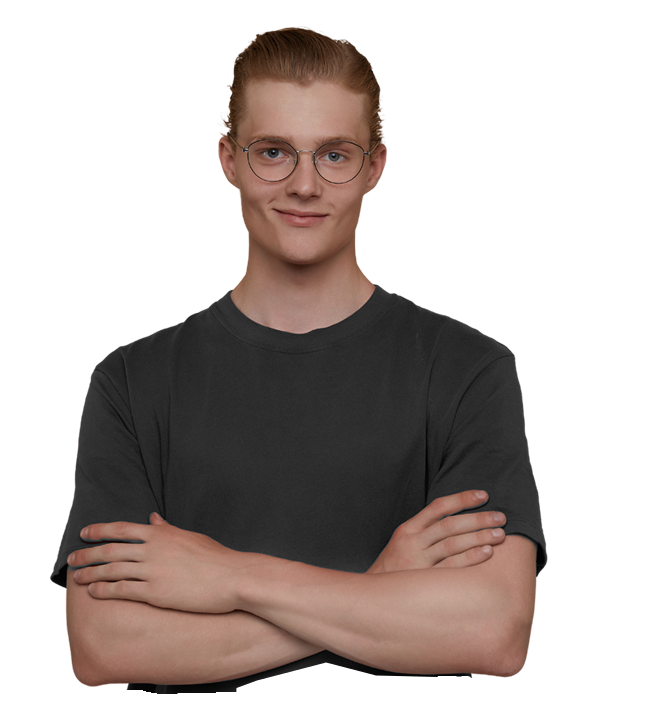
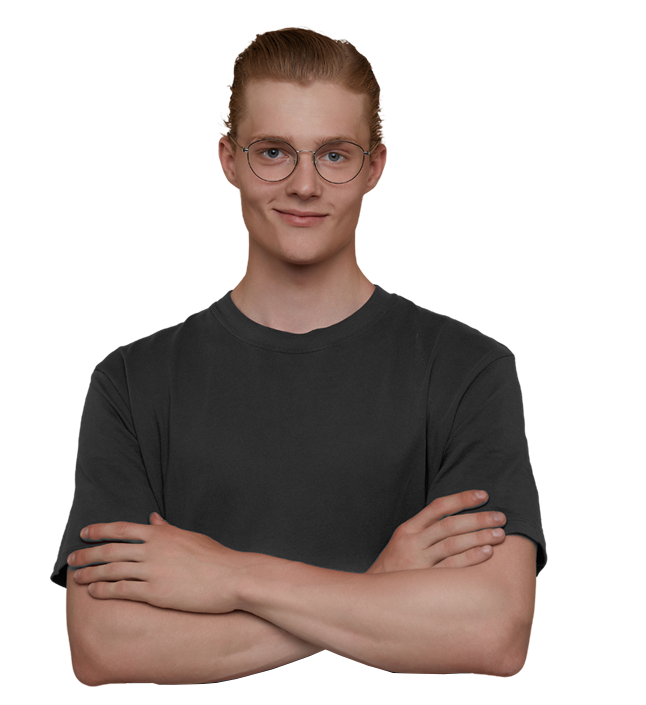
lp responsive started

Changed region(s): [[0.3715, 0.905, 0.743, 0.9674], [0.1858, 0.9674, 0.3715, 0.9986]]

diff --git a/src/app/shared/header/header.component.html b/src/app/shared/header/header.component.html
@@ -32,7 +32,28 @@
     </div>
     <ng-template #Mobileview >
         <div class="mobile-header">
-            <span>Hallo</span>
+            <svg width="140.28" height="31.458" viewBox="0 0 140.28 31.458" xmlns="http://www.w3.org/2000/svg">
+                <g id="svgGroup" stroke-linecap="round" fill-rule="evenodd" font-size="9pt">
+                    <path fill="#ffffff"
+                        d="M 25.326 1.764 L 31.962 1.764 L 31.962 31.08 L 26.082 31.08 L 26.082 12.012 L 18.228 31.08 L 13.776 31.08 L 5.88 12.012 L 5.88 31.08 L 0 31.08 L 0 1.764 L 6.678 1.764 L 16.002 23.562 L 25.326 1.764 Z"
+                        id="0" vector-effect="non-scaling-stroke" />
+                    <path fill="#7C28BD"
+                        d="M 54.558 11.13 L 54.558 7.812 L 60.48 7.812 L 60.48 31.08 L 54.558 31.08 L 54.558 27.678 A 8.269 8.269 0 0 1 52.483 29.74 A 10.365 10.365 0 0 1 51.429 30.387 A 8.95 8.95 0 0 1 48.398 31.353 A 11.411 11.411 0 0 1 46.83 31.458 Q 43.89 31.458 41.475 29.946 A 10.388 10.388 0 0 1 38.021 26.351 A 12.58 12.58 0 0 1 37.653 25.683 A 12.762 12.762 0 0 1 36.387 21.539 A 16.33 16.33 0 0 1 36.246 19.362 A 15.08 15.08 0 0 1 36.62 15.936 A 12.184 12.184 0 0 1 37.653 13.104 A 10.943 10.943 0 0 1 39.679 10.306 A 9.781 9.781 0 0 1 41.475 8.904 A 10.156 10.156 0 0 1 46.779 7.434 A 12.048 12.048 0 0 1 46.872 7.434 A 10.962 10.962 0 0 1 49.17 7.665 A 8.501 8.501 0 0 1 51.429 8.484 A 9.995 9.995 0 0 1 53.427 9.881 A 8.484 8.484 0 0 1 54.558 11.13 Z M 54.558 19.446 A 9.137 9.137 0 0 0 54.397 17.688 A 6.606 6.606 0 0 0 53.718 15.771 Q 52.878 14.238 51.45 13.419 Q 50.022 12.6 48.384 12.6 Q 46.746 12.6 45.36 13.398 Q 43.974 14.196 43.113 15.729 A 6.602 6.602 0 0 0 42.373 17.867 A 8.863 8.863 0 0 0 42.252 19.362 A 8.657 8.657 0 0 0 42.454 21.273 A 6.764 6.764 0 0 0 43.113 23.037 A 6.62 6.62 0 0 0 44.309 24.63 A 5.828 5.828 0 0 0 45.381 25.452 Q 46.788 26.292 48.384 26.292 Q 50.022 26.292 51.45 25.473 A 5.888 5.888 0 0 0 53.638 23.263 A 7.02 7.02 0 0 0 53.718 23.121 A 6.633 6.633 0 0 0 54.408 21.145 A 9.193 9.193 0 0 0 54.558 19.446 Z"
+                        id="1" vector-effect="non-scaling-stroke" />
+                    <path fill="#ffffff"
+                        d="M 79.254 7.476 L 79.254 13.65 L 77.7 13.65 A 9.428 9.428 0 0 0 76.138 13.771 Q 75.296 13.913 74.629 14.22 A 4.216 4.216 0 0 0 73.521 14.952 Q 72.114 16.254 72.114 19.488 L 72.114 31.08 L 66.234 31.08 L 66.234 7.812 L 72.114 7.812 L 72.114 11.424 Q 73.248 9.576 75.075 8.526 A 7.917 7.917 0 0 1 78.25 7.526 A 9.826 9.826 0 0 1 79.254 7.476 Z"
+                        id="2" vector-effect="non-scaling-stroke" />
+                    <path fill="#ffffff"
+                        d="M 104.16 15.666 L 97.818 15.666 A 4.963 4.963 0 0 0 97.046 14.189 A 4.444 4.444 0 0 0 96.117 13.293 A 4.489 4.489 0 0 0 94.302 12.534 A 6.177 6.177 0 0 0 93.156 12.432 A 5.594 5.594 0 0 0 91.315 12.722 A 4.692 4.692 0 0 0 89.166 14.259 A 6.048 6.048 0 0 0 88.123 16.269 Q 87.85 17.144 87.751 18.202 A 13.452 13.452 0 0 0 87.696 19.446 A 12.05 12.05 0 0 0 87.851 21.441 Q 88.173 23.356 89.166 24.591 Q 90.636 26.418 93.156 26.418 Q 96.485 26.418 97.66 23.642 A 6.313 6.313 0 0 0 97.818 23.226 L 104.16 23.226 A 11.521 11.521 0 0 1 102.569 26.85 A 10.333 10.333 0 0 1 100.338 29.232 A 10.364 10.364 0 0 1 95.736 31.241 A 14.22 14.22 0 0 1 93.198 31.458 A 12.934 12.934 0 0 1 89.841 31.037 A 10.893 10.893 0 0 1 87.234 29.967 Q 84.63 28.476 83.16 25.767 A 12.01 12.01 0 0 1 81.864 21.823 A 15.701 15.701 0 0 1 81.69 19.446 A 14.996 14.996 0 0 1 82.035 16.159 A 11.689 11.689 0 0 1 83.16 13.125 Q 84.63 10.416 87.234 8.925 Q 89.838 7.434 93.198 7.434 A 14.227 14.227 0 0 1 96.438 7.784 A 10.203 10.203 0 0 1 100.359 9.597 A 10.078 10.078 0 0 1 103.69 14.151 A 13.255 13.255 0 0 1 104.16 15.666 Z"
+                        id="3" vector-effect="non-scaling-stroke" />
+                    <path fill="#ffffff"
+                        d="M 129.948 21.21 L 112.938 21.21 Q 113.148 23.73 114.702 25.158 A 5.374 5.374 0 0 0 118.209 26.579 A 6.974 6.974 0 0 0 118.524 26.586 Q 121.8 26.586 123.186 23.772 L 129.528 23.772 Q 128.52 27.132 125.664 29.295 A 10.559 10.559 0 0 1 120.827 31.296 A 14.152 14.152 0 0 1 118.65 31.458 A 12.974 12.974 0 0 1 114.927 30.939 A 11.349 11.349 0 0 1 112.623 29.967 Q 109.956 28.476 108.465 25.746 A 12.137 12.137 0 0 1 107.105 21.492 A 15.475 15.475 0 0 1 106.974 19.446 A 15.028 15.028 0 0 1 107.33 16.104 A 11.837 11.837 0 0 1 108.444 13.104 Q 109.914 10.374 112.56 8.904 A 11.648 11.648 0 0 1 116.776 7.55 A 14.707 14.707 0 0 1 118.65 7.434 A 13.231 13.231 0 0 1 122.163 7.886 A 11.348 11.348 0 0 1 124.593 8.862 Q 127.218 10.29 128.667 12.915 Q 130.116 15.54 130.116 18.942 A 16.249 16.249 0 0 1 130.075 20.13 A 11.861 11.861 0 0 1 129.948 21.21 Z M 112.98 17.262 L 124.026 17.262 A 5.308 5.308 0 0 0 123.714 15.509 A 4.497 4.497 0 0 0 122.388 13.629 A 5.659 5.659 0 0 0 119.083 12.288 A 7.367 7.367 0 0 0 118.482 12.264 A 5.956 5.956 0 0 0 116.587 12.555 A 5.079 5.079 0 0 0 114.807 13.587 A 5.329 5.329 0 0 0 113.303 15.892 A 7.464 7.464 0 0 0 112.98 17.262 Z"
+                        id="4" vector-effect="non-scaling-stroke" />
+                    <path fill="#70E61C" d="M 134.4 0 L 140.28 0 L 140.28 31.08 L 134.4 31.08 L 134.4 0 Z" id="5"
+                        vector-effect="non-scaling-stroke" />
+                </g>
+            </svg>
+            <img src="assets/img/burgermenu.png" alt="">
         </div>      
     </ng-template>
 </header>

diff --git a/src/app/landing-page/landing-page.component.scss b/src/app/landing-page/landing-page.component.scss
@@ -3,20 +3,41 @@ body {
 }
 
 .hero {
-    width: 1344px;
-    height: 646px;
     position: relative;
-    margin-top: 110px;
-}
-
-.vector {
-    position: absolute;
-    top: 267.56px;
 }
 
 .portrait {
     display: flex;
+    width: 1344px;
+    height: 646px;
+    margin-top: 110px;
 }
+
+.portrait-mobile {
+    display: flex;
+    flex-direction: column;
+    justify-content: center;
+    width: 100vw;  
+    margin-top: 110px;
+    position: relative;
+}
+
+.introduction-mobile {
+    display: flex;
+    flex-direction: column;
+    justify-content: center;
+    align-items: center;
+    height: 100vh;
+    width: 100%;
+}
+
+
+.vector {
+    position: absolute;
+    top: 267.56px;
+    
+}
+
 
 .portrait-background {
     position: absolute;
@@ -24,17 +45,69 @@ body {
     left: 0;
 }
 
+.portrait-mobile .portrait-background {
+    position: absolute;
+    top: 0;
+    left: 50%;
+    transform: translateX(-50%); /* Zentriert horizontal */
+}
+
 .portrait-foreground {
     position: absolute;
     z-index: 10;
     top: 0;
     left: 0;
+
+    @media (max-width: 520px) {
+        width: 90%;  // Shrinks to 80% of original size
+        bottom: 0;
+        img {
+            width: 100%;
+            height: auto;
+        }
+    }
 }
+
+.portrait-mobile .portrait-foreground {
+    position: absolute;
+    top: 0;
+    left: 50%;
+    transform: translateX(-50%);
+    z-index: 10;
+}
+
 
 .green-shadow {
     position: absolute;
     top: 0;
     left: 200px;
+}
+
+.portrait-mobile .green-shadow {
+    position: absolute;
+    top: 0;
+    left: calc(50% - 20%); // Moved more to the right
+    width: 80%; // Reduced width
+    img {
+        width: 100%;
+        height: auto;
+    }
+}
+
+.purple-shadow {
+    position: absolute;
+    top: 0;
+}
+
+.portrait-mobile  .purple-shadow {
+    position: absolute;
+    top: 0;
+    left: calc(50% - 60%); // Moved more to the left
+    width: 80%; // Reduced width
+    img {
+        width: 100%;
+        height: auto;
+    }
 }
 
 .introduction-container {
@@ -75,6 +148,17 @@ h2 {
     display: flex;
 }
 
+
+.full-introduction-mobile {
+    margin-top: 600px; /* Angepasst von 800px */
+    display: flex;
+    align-items: center; /* Ausrichtung an der Oberkante */
+    justify-content: center;
+    z-index: 10;
+    width: 100%;
+    padding: 0 20px;
+    box-sizing: border-box;
+}
 .iam {
     padding-top: 65px;
     padding-left: 10px;
@@ -85,6 +169,22 @@ h2 {
     color: white;
 }
 
+.iam-mobile {
+    position: relative;
+    width: 48px; /* Höhe des originalen Textes */
+    height: 120px; /* Breite des originalen Textes */
+    margin-right: 20px;
+    
+    span {
+        position: absolute;
+        transform-origin: left top;
+        transform: rotate(-90deg) translateX(-100%);
+        white-space: nowrap;
+        font-weight: 300;
+        font-size: 48px;
+        color: white;
+    }
+}
 .hero-contact {
     z-index: 10;
     position: absolute;

diff --git a/src/app/landing-page/landing-page.component.html b/src/app/landing-page/landing-page.component.html
@@ -1,5 +1,5 @@
 <div class="hero">
-    <div class="portrait">
+    <div class="portrait" *ngIf="isDesktop else Mobileview">
         <img src="\assets\img\purple_shadow_foto.png" alt="">
         <img class="green-shadow" src="\assets\img\green_shadow_foto.png" alt="">
         <img class="portrait-background" src="\assets\img\hero-character-photo.png" alt="">
@@ -17,7 +17,6 @@
                 </div>
                 <button class="green-button">Lets talk</button>
             </div>
-
         </div>
     </div>
     <div class="vector">
@@ -46,4 +45,25 @@
         <span class="scroll-down-text">Scroll down</span>
         <img class="img-90deg" src="\assets\img\vector.png" alt="">
     </div>
+    <ng-template #Mobileview>
+        <div class="portrait-mobile">
+            <img class="purple-shadow" src="\assets\img\purple_shadow_foto.png" alt="">
+            <img class="green-shadow" src="\assets\img\green_shadow_foto.png" alt="">
+            <img class="portrait-background" src="\assets\img\hero-character-photo.png" alt="">
+            <img class="portrait-foreground" src="\assets\img\hero-character-photo_b.png" alt="">
+            <div class="introduction-mobile">
+                <div class="full-introduction-mobile ">
+                    <div class="iam-mobile">
+                        <span>I am</span>
+                    </div>
+                    <div class="name-container">
+                        <h1>Marcel Speerschneider</h1>
+                        <h2>FRONTEND DEVELOPER</h2>
+                    </div>
+                </div>
+                <button class="green-button">Lets talk</button>
+            </div>
+        </div>
+    </ng-template>
+
 </div>

diff --git a/src/app/services/responsive.service.ts b/src/app/services/responsive.service.ts
@@ -1,26 +1,28 @@
 import { Injectable } from '@angular/core';
 import { BehaviorSubject, Observable } from 'rxjs';
 
-
 @Injectable({
   providedIn: 'root'
 })
 export class ResponsiveService {
 
   private isMobileSubject = new BehaviorSubject<boolean>(false);
-  private isDesktopSubject = new BehaviorSubject<boolean>(true);
-
+  isDesktop$: Observable<boolean>;
   isMobile$: Observable<boolean> = this.isMobileSubject.asObservable();
-  isDesktop$: Observable<boolean> = this.isDesktopSubject.asObservable();
 
   constructor() {
+    this.isDesktop$ = new Observable<boolean>(observer => {
+      this.isMobile$.subscribe(isMobile => {
+        observer.next(!isMobile);
+      });
+    });
+
     this.checkScreenSize();
     window.addEventListener('resize', () => this.checkScreenSize());
   }
 
   private checkScreenSize(): void {
     const width = window.innerWidth;
-    this.isMobileSubject.next(width < 768);
-    this.isDesktopSubject.next(width >= 1440);
+    this.isMobileSubject.next(width < 1440);
   }
 }

diff --git a/src/app/landing-page/landing-page.component.ts b/src/app/landing-page/landing-page.component.ts
@@ -18,13 +18,13 @@ export class LandingPageComponent implements OnInit, OnDestroy {
 
   constructor(private responsiveService: ResponsiveService) { }
 
-  ngOnInit(): void {
-    this.subscriptions.add(
-      this.responsiveService.isMobile$.subscribe(value => this.isMobile = value)
-    );
-    this.subscriptions.add(
-      this.responsiveService.isDesktop$.subscribe(value => this.isDesktop = value)
-    );
+    ngOnInit(): void {
+      this.subscriptions.add(
+        this.responsiveService.isMobile$.subscribe(value => {
+          this.isMobile = value;
+          this.isDesktop = !value;
+        })
+      );
   }
 
   ngOnDestroy(): void {

diff --git a/src/app/shared/header/header.component.scss b/src/app/shared/header/header.component.scss
@@ -21,11 +21,21 @@ nav {
 }
 
 .mobile-header {
-    width: 100%;
     height: 110px;
     position: fixed;
     top: 0;
     left: 0;
     right: 0;
     z-index: 100;
+    display: flex;
+    justify-content: space-between;
+    align-items: center;
+    padding: 37px 25px 37px 25px;
+    > img {
+        height: 27.72px;
+        width: 30px;
+        &:hover {
+            cursor: pointer;
+        }
+    }
 }
